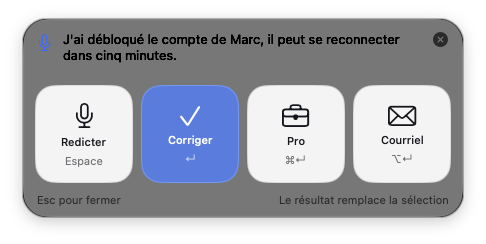
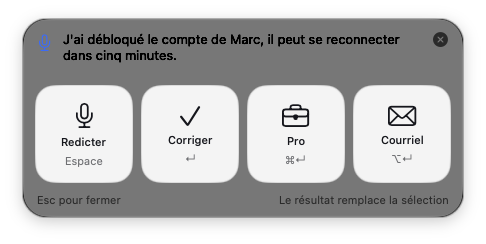
Version 1.9.2 : boutons blancs au repos, palette déplaçable

Changed region(s): [[0.2778, 0.3443, 0.4938, 0.7746]]

diff --git a/Sources/AutoCorrection/PaletteView.swift b/Sources/AutoCorrection/PaletteView.swift
@@ -1,3 +1,4 @@
+import AppKit
 import SwiftUI
 
 enum PalettePhase: Equatable {
@@ -34,6 +35,7 @@ struct PaletteView: View {
             content
         }
         .frame(width: 440)
+        .modifier(WindowDrag())
         .modifier(GlassPanel())
     }
 
@@ -88,11 +90,11 @@ struct PaletteView: View {
             VStack(spacing: 0) {
                 HStack(spacing: 8) {
                     tile(model.fromDictation ? "Redicter" : "Dicter", icon: "microphone", shortcut: "Espace",
-                         prominent: !hasText, enabled: !hasText || model.fromDictation) { model.onDictate() }
+                         enabled: !hasText || model.fromDictation) { model.onDictate() }
                         .keyboardShortcut(.space, modifiers: [])
-                    tile(.correct, key: .return, mods: [], prominent: hasText)
-                    tile(.polish, key: .return, mods: .command, prominent: false)
-                    tile(.email, key: .return, mods: .option, prominent: false)
+                    tile(.correct, key: .return, mods: [])
+                    tile(.polish, key: .return, mods: .command)
+                    tile(.email, key: .return, mods: .option)
                 }
                 .padding(.horizontal, 12)
                 .padding(.top, 10)
@@ -167,7 +169,7 @@ struct PaletteView: View {
         .padding(.top, 2)
     }
 
-    private func tile(_ title: String, icon: String, shortcut: String, prominent: Bool, enabled: Bool,
+    private func tile(_ title: String, icon: String, shortcut: String, enabled: Bool,
                       action: @escaping () -> Void) -> some View {
         Button(action: action) {
             VStack(spacing: 5) {
@@ -177,13 +179,13 @@ struct PaletteView: View {
             }
             .frame(maxWidth: .infinity, maxHeight: .infinity)
         }
-        .buttonStyle(TileStyle(prominent: prominent))
+        .buttonStyle(TileStyle())
         .aspectRatio(1, contentMode: .fit)
         .disabled(!enabled)
     }
 
-    private func tile(_ action: TextAction, key: KeyEquivalent, mods: EventModifiers, prominent: Bool) -> some View {
-        tile(action.shortTitle, icon: action.icon, shortcut: action.shortcutLabel, prominent: prominent,
+    private func tile(_ action: TextAction, key: KeyEquivalent, mods: EventModifiers) -> some View {
+        tile(action.shortTitle, icon: action.icon, shortcut: action.shortcutLabel,
              enabled: !model.selection.isEmpty) { model.onRun(action) }
             .keyboardShortcut(key, modifiers: mods)
     }
@@ -208,30 +210,24 @@ private struct GlassPanel: ViewModifier {
     }
 }
 
-/// Gros carré blanc ; bleu plus foncé au survol. Le bouton principal reste bleu (plus foncé au survol).
+/// Gros carré blanc ; il ne devient bleu qu'au survol de la souris.
 private struct TileStyle: ButtonStyle {
-    let prominent: Bool
-
     func makeBody(configuration: Configuration) -> some View {
-        TileBody(configuration: configuration, prominent: prominent)
+        TileBody(configuration: configuration)
     }
 
     private struct TileBody: View {
         let configuration: Configuration
-        let prominent: Bool
         @Environment(\.isEnabled) private var enabled
         @State private var hovering = false
 
         var body: some View {
             let shape = RoundedRectangle(cornerRadius: 20, style: .continuous)
             let hot = hovering && enabled
-            let fill: Color = hot ? Color(red: 0.08, green: 0.36, blue: 0.86)
-                : prominent ? Color(red: 0.24, green: 0.55, blue: 1).opacity(0.8)
-                : Color.white.opacity(0.92)
-            let stroke: Color = hot || prominent ? Color(red: 0.47, green: 0.69, blue: 1).opacity(0.75)
-                : Color.black.opacity(0.1)
+            let fill: Color = hot ? Color(red: 0.08, green: 0.36, blue: 0.86) : Color.white.opacity(0.92)
+            let stroke: Color = hot ? Color(red: 0.47, green: 0.69, blue: 1).opacity(0.75) : Color.black.opacity(0.1)
             configuration.label
-                .foregroundStyle(hot || prominent ? Color.white : Color(red: 0.08, green: 0.09, blue: 0.12))
+                .foregroundStyle(hot ? Color.white : Color(red: 0.08, green: 0.09, blue: 0.12))
                 .background(fill, in: shape)
                 .overlay(shape.strokeBorder(stroke))
                 .opacity(enabled ? 1 : 0.5)
@@ -239,5 +235,24 @@ private struct TileStyle: ButtonStyle {
                 .animation(.easeOut(duration: 0.12), value: hot)
                 .onHover { hovering = $0 }
         }
+    }
+}
+
+/// Déplace la fenêtre quand on glisse sur une zone sans bouton. `isMovableByWindowBackground` ne suffit pas :
+/// la vue SwiftUI garde les clics pour elle.
+private struct WindowDrag: ViewModifier {
+    @State private var start: (mouse: NSPoint, origin: NSPoint)?
+
+    func body(content: Content) -> some View {
+        content.gesture(
+            DragGesture(minimumDistance: 2, coordinateSpace: .global)
+                .onChanged { _ in
+                    guard let w = NSApp.keyWindow ?? NSApp.windows.first(where: \.isVisible) else { return }
+                    let m = NSEvent.mouseLocation
+                    if start == nil { start = (m, w.frame.origin) }
+                    guard let s = start else { return }
+                    w.setFrameOrigin(NSPoint(x: s.origin.x + m.x - s.mouse.x, y: s.origin.y + m.y - s.mouse.y))
+                }
+                .onEnded { _ in start = nil })
     }
 }

diff --git a/Sources/AutoCorrection/AppController.swift b/Sources/AutoCorrection/AppController.swift
@@ -106,7 +106,6 @@ final class AppController: NSObject, NSApplicationDelegate {
         panel.isOpaque = false
         panel.backgroundColor = .clear
         panel.hasShadow = true
-        panel.isMovableByWindowBackground = true
         panel.collectionBehavior = [.canJoinAllSpaces, .fullScreenAuxiliary]
         panel.onCancel = { [weak self] in self?.hidePanel() }
         panel.contentView = NSHostingView(rootView: PaletteView(model: model))

diff --git a/CHANGELOG.md b/CHANGELOG.md
@@ -1,5 +1,12 @@
 # Changements
 
+## 1.9.2 — 2026-10-13
+### Modifié
+- Palette : plus aucun bouton en bleu au repos ; le bleu n'apparaît qu'au survol de la souris.
+
+### Corrigé
+- La palette se déplace enfin : glisser sur une zone sans bouton (en-tête, marges, pied).
+
 ## 1.9.1 — 2026-10-13
 ### Modifié
 - Palette : les gros carrés sont blancs et passent à un bleu plus foncé au survol de la souris (le bouton principal reste bleu).
